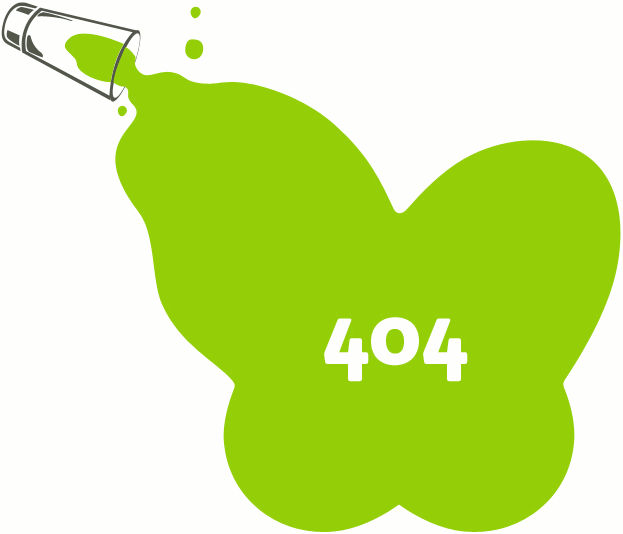
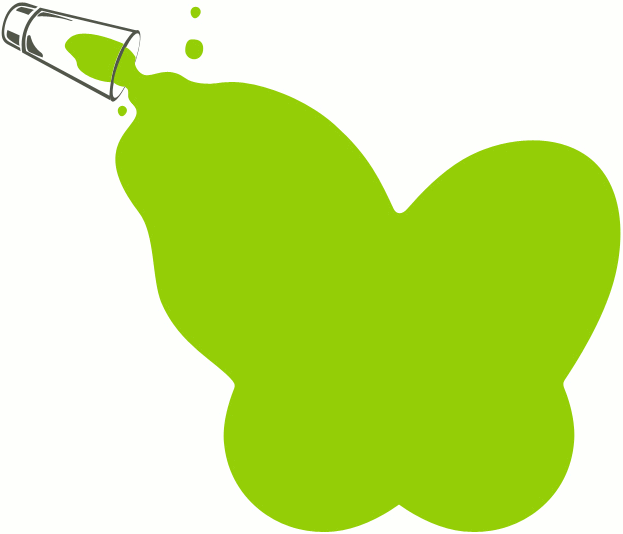
переверстал страницу ошибок

Changed region(s): [[0.5185, 0.5693, 0.7624, 0.7191]]

diff --git a/less/.gridr/_gridr.less b/less/.gridr/_gridr.less
@@ -18,6 +18,7 @@ html, body {
 	margin: 0;
 	padding: 0;
 	width: 100%;
+	color: @default-color;
 	-webkit-font-smoothing: subpixel-antialiased;
 }
 #error {
@@ -430,4 +431,40 @@ img {
 }
 .text-right {
 	text-align: right;
+}
+
+//Error page
+.error-page{
+	.error-number {
+		color: #fff;
+		position: relative;
+		margin-left: -200px;
+		img{
+			display: inline-block;
+		}
+		span{
+			left:50%;
+			font-size: @default-font-size*6;
+			top: 280px;
+			display: inline-block;
+			padding-left: 20px;
+			font-weight: bold;
+			position: absolute;
+		}
+	}
+
+	h1{
+		font-size: 38px;
+		font-weight: 700;
+		margin-bottom: 10px;
+		margin-top: 20px;
+		a{
+			color: #8CC507;
+			display: block;
+			font-size: 20px;
+			font-weight: 400;
+			margin-top: 15px;
+			text-decoration: none;
+		}
+	}
 }

diff --git a/less/.gridr/_variables.less b/less/.gridr/_variables.less
@@ -3,3 +3,6 @@
 @default-grid-columns: 12;
 
 @default-font-size: 12px;
+
+//colors
+@default-color: #333333;

diff --git a/protected/views/layouts/error.php b/protected/views/layouts/error.php
@@ -6,17 +6,16 @@
 		<meta name="description" content="">
 		<meta name="author" content="">
 		<title><?php echo CHtml::encode($this->pageTitle); ?></title>
-		<!-- Bootstrap core CSS -->
-		<link href="/css/bootstrap.css" rel="stylesheet">
-		<!-- Custom styles for this template -->
-		<link href="/css/custom/backend/empty.css" rel="stylesheet">
+		<?php
+		Yii::app()->less->register();
+
+		/** @var $cs EClientScript */
+		$cs = Yii::app()->getClientScript();
+		$cs->releaseCssFile('/css/generated/calendar.css');
+
+		?>
 	</head>
-	<body class="error">
-		<div class="container">
-			<?php echo $content; ?>
-		</div> <!-- /container -->
-		<!-- Bootstrap core JavaScript
-		================================================== -->
-		<!-- Placed at the end of the document so the pages load faster -->
+	<body class="error-page">
+		<?php echo $content; ?>
 	</body>
 </html>

diff --git a/protected/views/site/error.php b/protected/views/site/error.php
@@ -7,9 +7,14 @@ $this->breadcrumbs=array(
 	'Error',
 );
 ?>
-<div class="row">
-	<div class="col-lg-8 col-lg-offset-2 col-md-8 col-md-offset-2 col-sm-8 col-sm-offset-2 col-xs-12">
-		<img class="img-responsive error" src="/images/error.png">
-		<h1 class="error">Документ не найден...<a href="/"><i>На главную</i> &rarr;</a></span></h1>
+<div id="wrap" class="grid ">
+	<div class="flow">
+		<div class="col-12 text-center">
+			<div class="error-number ">
+				<img class="image-responseble" src="/images/error.png" alt=""/>
+				<span>404</span>
+			</div>
+			<h1 class="error">Документ не найден...<a href="/"><i>На главную</i> &rarr;</a></span></h1>
+		</div>
 	</div>
 </div>
